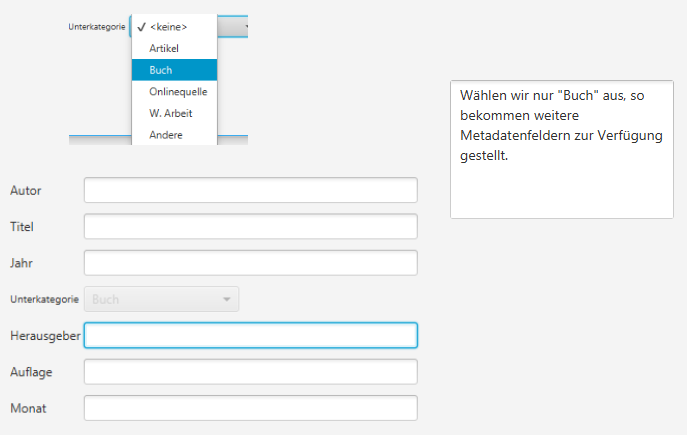
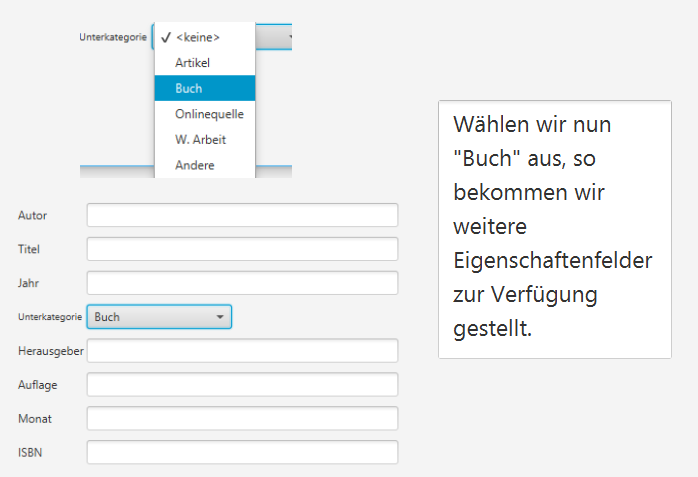
Tutorial erweitert

diff --git a/WissenschaftlicheQuellen/src/quellen/controller/TutorialController.java b/WissenschaftlicheQuellen/src/quellen/controller/TutorialController.java
@@ -73,12 +73,27 @@ public class TutorialController {
                 myImage.setImage(image);
                 this.nextClicks++;
                 break;
- /*           case TUT_09:
+            case TUT_09:
                 image = new Image(getClass().getResource(PIC_TUT_09).toExternalForm());
                 myImage.setImage(image);
                 this.nextClicks++;
                 break;
-   */         default:
+            case TUT_10:
+                image = new Image(getClass().getResource(PIC_TUT_10).toExternalForm());
+                myImage.setImage(image);
+                this.nextClicks++;
+                break;
+            case TUT_11:
+                image = new Image(getClass().getResource(PIC_TUT_11).toExternalForm());
+                myImage.setImage(image);
+                this.nextClicks++;
+                break;
+            case TUT_12:
+                image = new Image(getClass().getResource(PIC_TUT_12).toExternalForm());
+                myImage.setImage(image);
+                this.nextClicks++;
+                break;
+            default:
                 this.buttonTest = false;
                 image = new Image(getClass().getResource(PIC_TUT).toExternalForm());
                 myImage.setImage(image);
@@ -95,8 +110,6 @@ public class TutorialController {
         if (nextClicks > 1 && buttonTest == true) {
             this.nextClicks--;
             this.buttonTest = false;
-        } else if (nextClicks == TUT_ANZAHL_PLUS_EINS && buttonTest == false){
-            this.nextClicks--;
         }
 
         if (nextClicks > 1) {
@@ -137,11 +150,23 @@ public class TutorialController {
                 image = new Image(getClass().getResource(PIC_TUT_08).toExternalForm());
                 myImage.setImage(image);
                 break;
-   /*         case TUT_09:
+            case TUT_09:
                 image = new Image(getClass().getResource(PIC_TUT_09).toExternalForm());
                 myImage.setImage(image);
                 break;
-     */       default:
+            case TUT_10:
+                image = new Image(getClass().getResource(PIC_TUT_10).toExternalForm());
+                myImage.setImage(image);
+                break;
+            case TUT_11:
+                image = new Image(getClass().getResource(PIC_TUT_11).toExternalForm());
+                myImage.setImage(image);
+                break;
+            case TUT_12:
+                image = new Image(getClass().getResource(PIC_TUT_12).toExternalForm());
+                myImage.setImage(image);
+                break;
+            default:
                 image = new Image(getClass().getResource(PIC_TUT).toExternalForm());
                 myImage.setImage(image);
         }

diff --git a/WissenschaftlicheQuellen/src/quellen/constants/Controller_Constants.java b/WissenschaftlicheQuellen/src/quellen/constants/Controller_Constants.java
@@ -125,9 +125,12 @@ public class Controller_Constants {
     public static final int TUT_07 = 7;
     public static final int TUT_08 = 8;
     public static final int TUT_09 = 9;
+    public static final int TUT_10 = 10;
+    public static final int TUT_11 = 11;
+    public static final int TUT_12 = 12;
 
 
-    public static final int TUT_ANZAHL_PLUS_EINS = 10;
+    public static final int TUT_ANZAHL_PLUS_EINS = 13;
 
 
     public static final String PIC_TUT_01 = "../resources/tut01.png";
@@ -140,5 +143,7 @@ public class Controller_Constants {
     public static final String PIC_TUT_08 = "../resources/tut08.png";
     public static final String PIC_TUT_09 = "../resources/tut09.png";
     public static final String PIC_TUT_10 = "../resources/tut10.png";
+    public static final String PIC_TUT_11 = "../resources/tut11.png";
+    public static final String PIC_TUT_12 = "../resources/tut12.png";
     public static final String PIC_TUT = "../resources/tut.png";
 }
